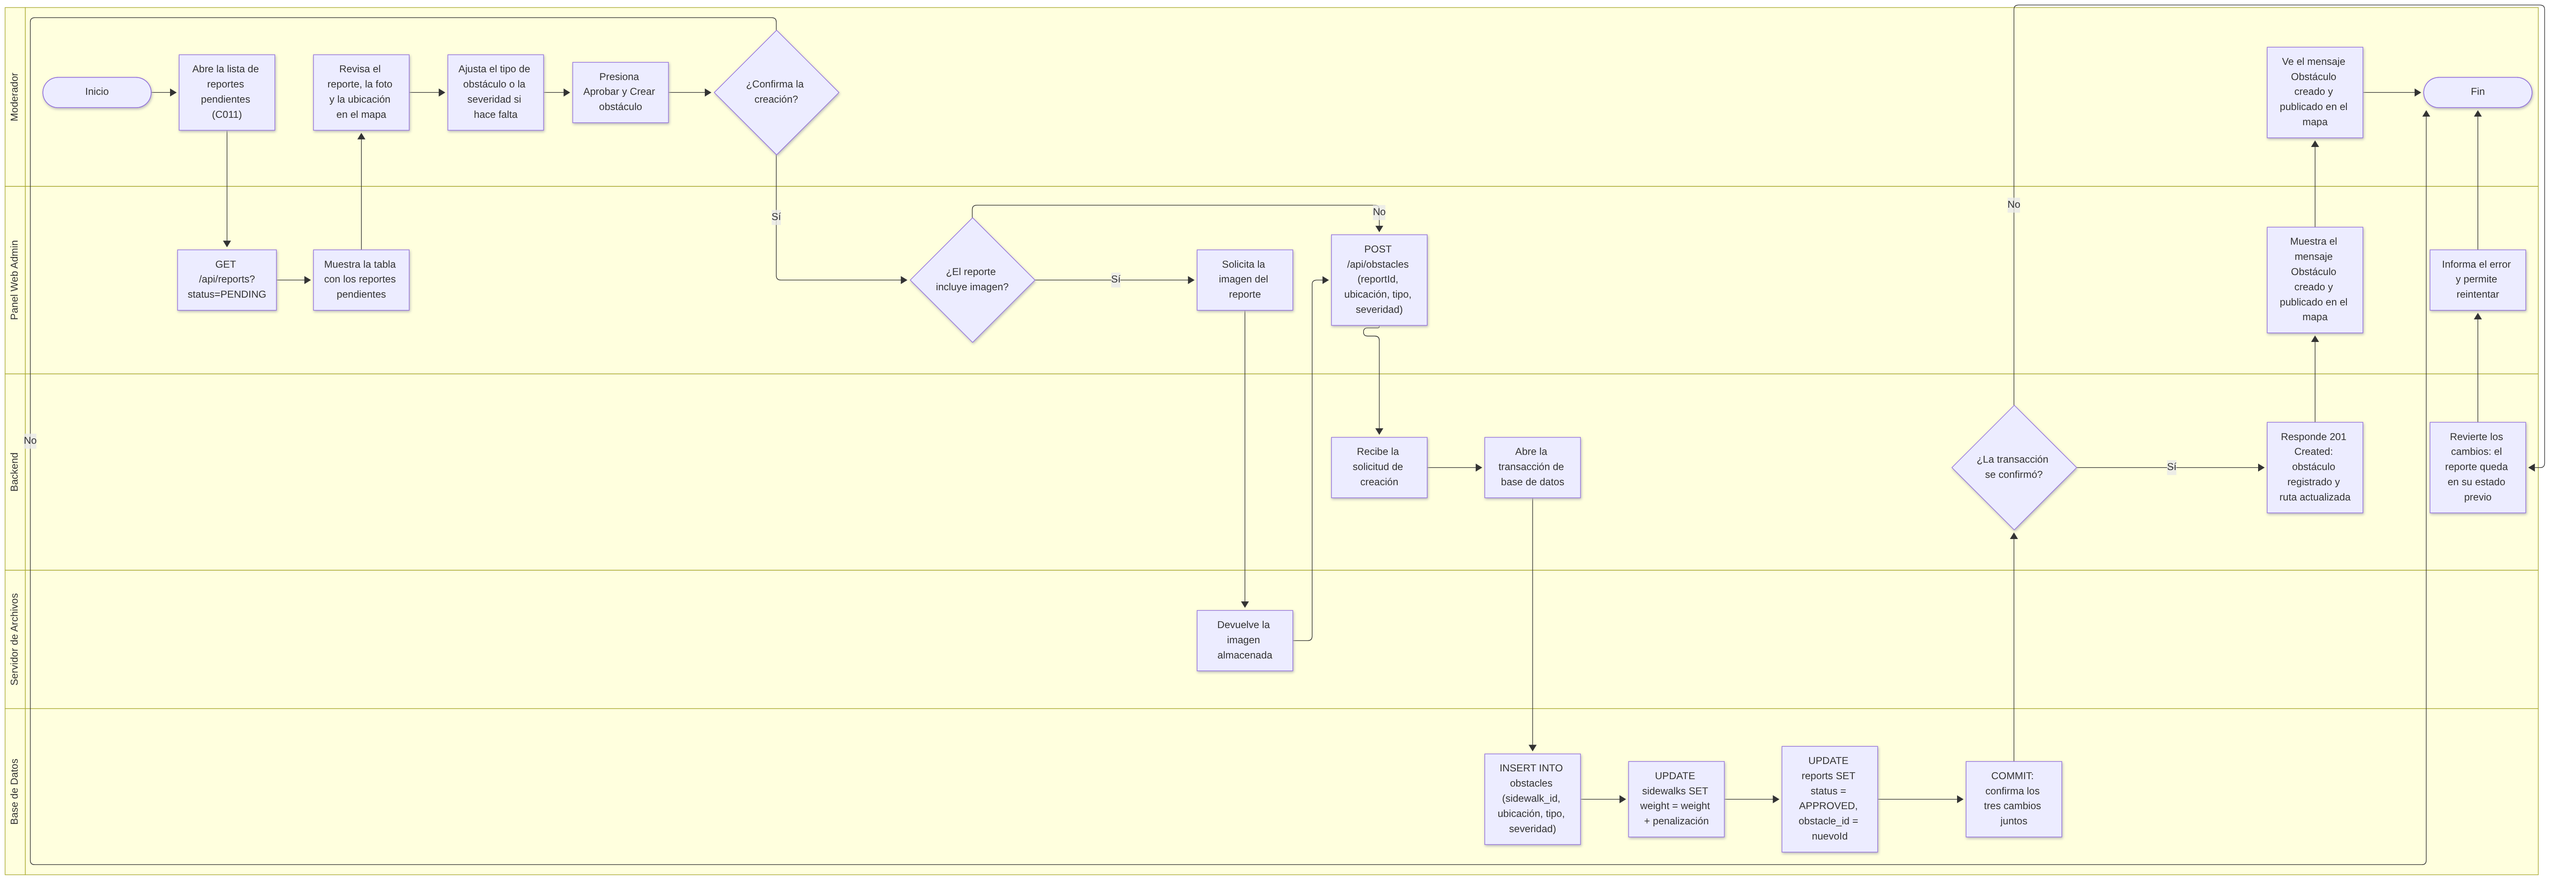
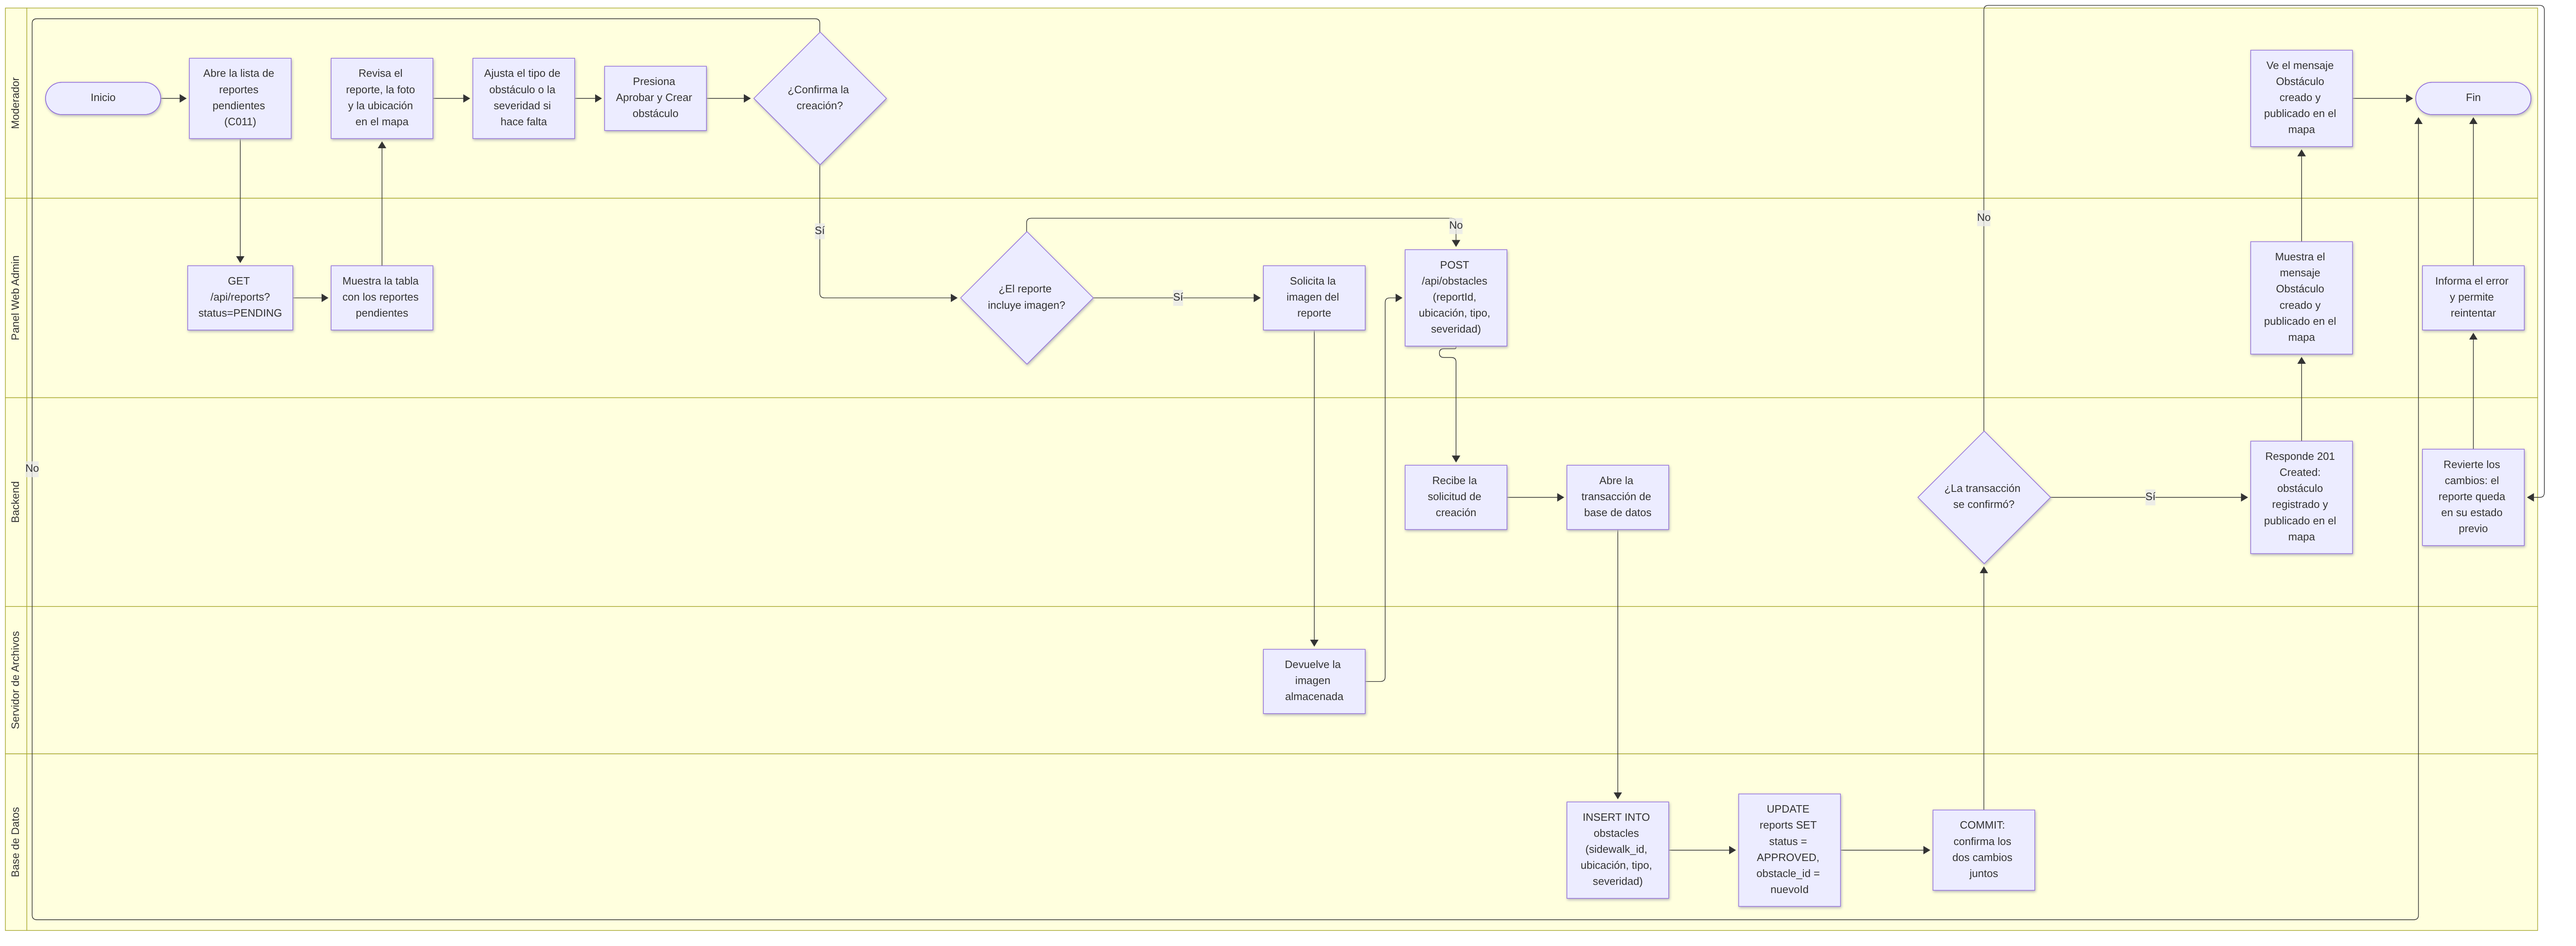
docs: derivar el costo de ruteo en vez de guardarlo
El diagrama de C012 hacia UPDATE sidewalks SET weight = weight + penalty, y no
existe tal columna. Tampoco deberia existir: una columna de costo es un cache
que tienen que mantener C012, C013, C014 y el importador, y 'weight + penalty'
no se puede revertir porque no queda registro de cuanto se sumo.

El costo se calcula en una vista, walkable_edges, que une veredas y cruces:
metros x factor de accesibilidad + suma de penalizaciones de obstaculos activos.
El nivel multiplica porque escala con la distancia; el obstaculo suma porque es
un evento puntual y cuesta lo mismo en una cuadra de 50 m que en una de 100.
CRITICAL bloquea (costo -1) y en un nodo solo se honra el bloqueo, porque
pgRouting no cobra por nodo. NULL se cobra como PARTIAL.

De paso se elimina crossings.has_traffic_light: el import lo deja en false en
todo el grafo y un booleano no representa el riesgo de un cruce. El DER ya no la
muestra; el DROP COLUMN va en #24.

Los diagramas de C012 y C003 dejan de hablar de pesos escritos, y el DER pasa a
escala 6, que estaba ilegible.

diff --git a/docs/09-modelo-de-datos.md b/docs/09-modelo-de-datos.md
@@ -17,6 +17,7 @@ Este documento responde:
   entre las tres formas posibles (§3).
 - **Qué** forma tiene cada campo cerrado del modelo, y qué relación hay entre
   reportes y obstáculos (§4).
+- **Dónde** vive el costo de ruteo de las aristas y con qué se combina (§4.7).
 - **Cómo** se administra un enum: orden, agregar, renombrar y quitar valores (§5).
 - **Qué** forma tiene un catálogo y cómo se da de baja una fila (§6).
 - **Cómo** se escribe una migración: formato, nombres, marcas de tiempo y
@@ -24,8 +25,8 @@ Este documento responde:
 
 No contiene el DER —eso es [01-diagramas.md](01-diagramas.md) §3 y su fuente en
 `docs/diagrams/01-DER.mmd`— ni las reglas de negocio que usan estos valores: las
-transiciones de estado están en los diagramas `05-est-*.mmd` y los pesos de ruteo se
-deciden en el issue correspondiente (§7).
+transiciones de estado están en los diagramas `05-est-*.mmd`. El costo de ruteo de las
+aristas sí se decide acá, pero solo en lo que toca al esquema: no es una columna (§4.7).
 
 ## 2. Convenciones del esquema
 
@@ -86,7 +87,7 @@ posible, porque el ruteo evita tramos que quizá están en buen estado.
 
 `PARTIAL` es el valor que justifica el ternario: una vereda angosta o con desnivel
 parcial no es intransitable, es transitable con penalización. Cuánto penaliza cada
-nivel se decide en el modelo de peso de las aristas (§7).
+nivel se decide en el costo de las aristas (§4.7).
 
 **`is_verified` es otro eje y no se reemplaza.** Dice procedencia —"un moderador
 comprobó este valor"— no accesibilidad. Un elemento puede tener nivel `PARTIAL`
@@ -129,11 +130,17 @@ que corresponde, así que el dato que alimenta el ruteo y las estadísticas no a
 esa es la señal de que falta un tipo en el catálogo — y agregarlo es un `INSERT`, no
 una migración, porque el catálogo es datos.
 
-**`obstacles.type` va a catálogo** porque el tipo no es solo una etiqueta: va a llevar
-atributos (nombre para mostrar, y más adelante su efecto en el ruteo) y va a crecer
-por datos —una barrera nueva no debería esperar un deploy—. Como `varchar` no admite
-ni lo uno ni lo otro, y como enum no admite atributos, la tabla de referencia es la
-única forma que cubre los dos casos.
+**`obstacles.type` va a catálogo** porque el tipo no es solo una etiqueta: lleva
+atributos propios (el nombre para mostrar) y va a crecer por datos —una barrera nueva no
+debería esperar un deploy—. Como `varchar` no admite un atributo, y como enum no admite
+atributos, la tabla de referencia es la única forma que cubre los dos casos.
+
+**El catálogo no lleva el efecto del tipo en el ruteo.** Si una barrera bloquea el paso o
+solo lo dificulta no es una propiedad del tipo —un pozo grande bloquea y uno chico no;
+una obra puede ocupar todo el ancho de la vereda o una parte— sino del obstáculo
+concreto, y ahí el dato ya existe: `obstacles.severity` (§4.7). Por eso no hay columna de
+peso ni de bloqueo en `obstacle_types`: agregarla daría dos fuentes para la misma
+pregunta y una contradicción posible (`MISSING_RAMP` marcado `MINOR` que igual bloquea).
 
 **`tutorials.category` va a catálogo** por la misma razón, con un argumento propio: la
 categoría la crean, editan y desactivan los moderadores. Un enum obligaría a una
@@ -141,7 +148,7 @@ migración cada vez que alguien agrega una categoría de video.
 
 ### 4.3 Los campos que se eliminan
 
-Dos campos del DER original se eliminaron, y se documenta acá porque quitarlos es una
+Tres campos del DER original se eliminaron, y se documenta acá porque quitarlos es una
 decisión de esquema, no un detalle.
 
 **`sidewalks.side`.** El "lado" de una vereda no es un atributo de la vereda: es una
@@ -181,6 +188,24 @@ de ruedas es `PARTIAL` o `NONE`. El ancho solo hace falta si se quiere *calcular
 nivel en vez de relevarlo. Agregar la columna después es aditivo y barato; y si el
 ruteo llegara a necesitar el dato, probablemente no sea una columna sino muestras a lo
 largo de la arista.
+
+**`crossings.has_traffic_light`.** Es el mismo caso que el ancho, con un problema más:
+un booleano **no dice lo que hay que saber**. Que un cruce tenga semáforo o no explica
+poco de su riesgo peatonal —cuenta el volumen y la velocidad del tráfico, si hay senda
+pintada, si la fase es protegida, el ancho de la calzada—, así que cualquier regla que lo
+usara estaría adivinando.
+
+Pero lo que lo vuelve inservible en el MVP es el valor por defecto. La columna es
+`NOT NULL DEFAULT false` y OpenStreetMap no trae el tag de forma confiable, así que **el
+import deja todo el grafo diciendo "sin semáforo"**. Una penalización por ese campo
+castigaría todos los cruces, incluidos los de una calle de barrio donde no hay semáforos
+porque no hacen falta: exactamente el error del booleano de accesibilidad (§4.1), un
+valor que significa "no sé" y termina afirmando algo falso.
+
+Se elimina del DER en esta decisión y la columna se borra con la migración
+correspondiente (#24). Si en alguna fase se quiere modelar el riesgo de un cruce, es un
+análisis propio —y casi seguro no con un booleano—; el tag de OSM se puede volver a
+importar cuando exista ese modelo.
 
 ### 4.4 El modelo en la calle
 
@@ -283,10 +308,163 @@ La razón es la promesa del producto. Si alguien guarda "casa → escuela" y el 
 almacena el camino calculado, ese camino puede volverse intransitable a la mitad —un
 obstáculo nuevo, una vereda rota— y la aplicación estaría mandando a la persona por un
 recorrido que ya no existe. Guardar el punto de partida y el de llegada obliga a
-recalcular cada vez, con los obstáculos y los pesos del momento.
+recalcular cada vez, con los obstáculos y la accesibilidad del momento.
 
 La consecuencia aceptada: el mismo par de extremos puede dar caminos distintos en
 momentos distintos. Eso no es un defecto, es el comportamiento correcto.
+
+### 4.7 El costo de las aristas se calcula, no se guarda
+
+Ni `sidewalks` ni `crossings` llevan una columna de costo. El costo de cada arista se
+**deriva en la consulta de ruteo** a partir de lo que ya está en el esquema: la longitud de
+su geometría, el `accessibility_level` del elemento y los obstáculos activos que lo afectan.
+
+Una vista, `walkable_edges`, reúne las dos tablas de aristas y escribe la fórmula una sola
+vez:
+
+```
+costo(e) = metros(e) × factor_nivel(e) + Σ penalización(obstáculos activos de e)
+```
+
+**Una vista no es una copia.** `CREATE VIEW` guarda solo el texto de la consulta: cada vez
+que se consulta, PostgreSQL lo expande y calcula el costo en ese momento. No ocupa espacio,
+no hay nada que mantener actualizado y no puede desincronizarse con las tablas. La que
+guarda datos es la vista *materializada*, y es justamente la que no se quiere.
+
+**`metros`** es `ST_Length(geom::geography)`, en metros reales y no en grados. No es un
+detalle: `pgr_dijkstra` minimiza la suma de los costos, así que las aristas tienen que estar
+en una unidad comparable; con grados, un tramo norte-sur cuesta más que uno este-oeste del
+mismo largo. Y sin ningún término de distancia el algoritmo minimiza la **cantidad de
+aristas** y no los metros: una ruta de quince cuadras cortas le gana a una de tres largas.
+
+**`factor_nivel`** multiplica, porque el nivel y el largo describen el mismo recorrido: 100 m
+de vereda `PARTIAL` cuestan como 200 m, y así se comparan con 200 m de vereda `FULL`.
+
+| `accessibility_level` | `factor_nivel` |
+| --- | --- |
+| `FULL` | 1 |
+| `PARTIAL` | 2 |
+| `NULL` | 2 |
+| `NONE` | `-1` |
+
+`NONE` no es un factor alto: **es `-1`, que es como pgRouting representa una arista que no
+se puede recorrer** ("a negative value on a cost column is interpreted as the edge does not
+exist"). Con eso la arista queda fuera del grafo sin un `WHERE` que la filtre, y cuando no
+hay camino el caso de uso ya tiene respuesta: C003 devuelve la mejor ruta disponible y marca
+los tramos comprometidos.
+
+`NULL` se cobra como `PARTIAL`, y la regla se enuncia así: **sin dato no se evita y no se
+premia**. Las dos lecturas directas son peores. Cobrarlo como `FULL` hace que el import de
+OpenStreetMap —que no trae accesibilidad— deje toda la red gratis, y entonces el ruteo
+prefiere una vereda sin relevar antes que una que un moderador revisó y marcó `PARTIAL`: el
+relevamiento castigaría al dato bueno. Cobrarlo como `NONE` deja la zona piloto sin ninguna
+ruta posible, que es el default que §4.1 ya descartó para el ternario.
+
+**Las penalizaciones suman, y por eso no multiplican.** Un obstáculo es un evento puntual:
+está en un lugar, y cuesta lo mismo en una cuadra de 50 m que en una de 100. Si su efecto
+multiplicara el largo, el mismo pozo costaría el doble por estar en una vereda más larga,
+que es falso; lo que escala con la distancia es caminar, y eso ya está en `metros`. Sumar
+deja además una sola unidad, los **metros equivalentes**: "este pozo cuesta como 15 m de
+vuelta".
+
+| Situación de la arista | Sumando |
+| --- | --- |
+| Sin obstáculos activos | 0 |
+| Un obstáculo `MINOR` | +15 m |
+| Un obstáculo `MODERATE` | +40 m |
+| Un obstáculo `CRITICAL` | la arista pasa a `-1` |
+
+Dos obstáculos en la misma cuadra suman. Que el mismo pozo reportado por cinco personas
+cuente una vez no depende de esta fórmula sino del modelo: los cinco reportes apuntan a
+**un** obstáculo, no a cinco (§4.5).
+
+**`CRITICAL` es la única severidad que no se pondera: bloquea.** Bloquear es una propiedad
+del obstáculo concreto y no de su tipo —un pozo grande bloquea y uno chico solo dificulta;
+una obra puede ocupar todo el ancho de la vereda o una parte—, así que el dato vive en
+`obstacles.severity` y no en el catálogo (§4.2). La consecuencia a tener presente: en el
+enum, `CRITICAL` pasa a significar "no se puede pasar" y ya no puede significar "muy malo,
+pero pasable". Si ese matiz hiciera falta, se agrega un nivel al enum (§5), no una columna.
+
+**Obstáculos activos** son los que tienen `is_resolved = false` y `deleted_at IS NULL`. El
+estado del reporte no entra en el costo: un reporte `UNDER_REPAIR` cuyo obstáculo sigue
+activo describe una barrera que sigue en la calle.
+
+**En un nodo, solo se honra el bloqueo.** Los metros son una cantidad de arista y un
+`kerb_node` no tiene: `pgr_dijkstra` no cobra por nodo, y como el caminar es no dirigido
+tampoco se puede cobrar "al salir" de uno sin volver el grafo dirigido. Entonces un
+obstáculo `CRITICAL` sobre un cordón deja intransitables todas sus aristas incidentes —la
+esquina no se puede usar, que es lo que significa una rampa faltante—, y un `MINOR` o
+`MODERATE` sobre un cordón **no mueve el costo**: queda en el mapa como información. Las
+alternativas descartadas repartían la penalización entre las aristas incidentes, con lo que
+la cuenta dependía del grado del nodo y una ruta que atravesaba la esquina pagaba dos veces.
+La puerta para modelar costo en el nodo existe —`pgr_trsp` con penalizaciones de giro— pero
+pide un grafo consciente de giros: es otra decisión.
+
+Los números de las tablas son el **punto de partida**, no el contrato: se ajustan midiendo
+rutas reales, y viven en la vista, no en los datos.
+
+#### Por qué no una columna `weight`
+
+El diagrama de C012 escribía `UPDATE sidewalks SET weight = weight + penalty` al crear un
+obstáculo, y ese `UPDATE` es el que no va a existir. Los motivos:
+
+1. **Una columna así es un caché sin invariante.** Tiene que ser verdadera después de cada
+   escritura, y los escritores son varios: crear el obstáculo (C012), resolverlo (C013),
+   cambiar el nivel de accesibilidad (C014), corregir la severidad en el portal, reimportar
+   OpenStreetMap. Cada uno de esos caminos tendría que acordarse de recalcular, y ninguno de
+   esos cálculos se puede auditar: no queda registro de qué se sumó.
+2. **`weight = weight + penalty` no se puede revertir.** Resolver el obstáculo tiene que
+   restar exactamente lo que se sumó: si la misma barrera tuvo dos reportes aprobados como
+   dos obstáculos se sumó dos veces, pero no hay columna que diga cuántas, y la reparación
+   resta una vez. Con el costo derivado, resolver el obstáculo alcanza para que deje de
+   contar.
+3. **El obstáculo ya es dueño de su efecto.** Guardar el efecto en la arista duplica una
+   verdad que tiene dueño propio, que es el obstáculo con su tipo, su severidad y su estado.
+   Es el mismo argumento de §4.6 para no guardar el recorrido de una ruta guardada, y el de
+   §4.1 para que `report_status` no lleve un valor `DELETED`.
+4. **El número es política, no dato de la calle.** Qué factor recibe cada nivel y cuántos
+   metros equivalentes suma cada severidad se ajusta probando, y guardarlos convertiría cada
+   ajuste en una migración de datos sobre todo el grafo. Así se cambia una vista.
+
+#### Limitaciones aceptadas
+
+**Bloquear bloquea la arista entera.** Una barrera en el metro 80 de una vereda de 100 m
+deja intransitable también el metro 60, que físicamente se puede caminar hasta ahí. Pasa
+porque la unidad de costo es la arista y el modelo no tiene barreras en el medio de una; las
+aristas ya se cortan en cada nodo, así que en el peor caso se pierde una cuadra.
+
+El arreglo correcto no es afinar el costo por metro: es **partir la arista en el punto del
+obstáculo** cuando el moderador lo vincula, con ese punto convertido en un `kerb_node` nuevo
+y las dos mitades heredando nivel y verificación. No entra en el MVP por una razón que no es
+de esquema: sería la primera vez que el portal modifica el grafo, y eso exige que el
+importador respete los cortes al reimportar, cosa que hoy no puede porque `crossings` no
+tiene identificador externo (§8). Se revisa cuando el importador sea idempotente. Mientras
+tanto, el portal puede avisar, al vincular un obstáculo a un tramo, que en el ruteo esa
+barrera bloquea la cuadra entera y no solo el punto: la limitación queda visible en lugar de
+sorpresiva.
+
+#### Consecuencias
+
+- **C012 no recalcula nada.** Crea el obstáculo y marca el reporte; el efecto en el ruteo
+  aparece en la próxima consulta, sin escribir en las tablas del grafo. Bajar además el nivel
+  del elemento, cuando la barrera cambia su estado actual, sigue siendo válido (§4.5), pero
+  el ruteo ya no depende de que se haga.
+- **C013 y C014 tampoco.** Resolver un obstáculo o cambiar un nivel escribe una sola tabla.
+  Dejan de existir los escritores del costo que podían desincronizarlo.
+- **Toda consulta de ruteo paga la derivación.** En la zona piloto son algunos miles de
+  aristas y no se nota. Se mide con `EXPLAIN` antes de suponer; si molesta, la salida es una
+  vista materializada que se refresca cuando cambia una de las tablas que la alimentan, no
+  una columna que alguien actualiza a mano.
+- **Hacen falta índices parciales de obstáculos activos** por `sidewalk_id`, `kerb_node_id` y
+  `crossing_id`. Los que existen filtran por `IS NOT NULL`, no por estado. Se agregan al
+  implementar el ruteo, con la medición a la vista.
+- **La vista es donde se unen las dos tablas de aristas.** `pgr_dijkstra` necesita una sola
+  relación con `id`, `source`, `target` y `cost`, y los `id` de veredas y cruces se pisan,
+  así que ahí se resuelven los identificadores sintéticos; como el caminar es no dirigido,
+  alcanza con `cost` y `directed => false`, sin `reverse_cost`. La topología y el
+  identificador sintético son del importador.
+- **El semáforo no entra.** `crossings.has_traffic_light` se elimina (§4.3): el costo de un
+  cruce no depende por ahora de nada más que su accesibilidad y sus obstáculos.
 
 ## 5. Administrar un enum
 
@@ -391,21 +569,19 @@ actualizar y la columna sería peso muerto.
 ## 8. Lo que este documento no decide
 
 - **Transiciones de estado.** Qué valores existen lo garantiza la base; qué
-transiciones son válidas lo garantiza la máquina de estados en el servicio, con los
-diagramas `05-est-*.mmd` como fuente y tests que las cubran. Que exista `RESOLVED` no
-impide escribir `PENDING → RESOLVED`; eso no es trabajo del esquema.
-- **Pesos de ruteo.** Cuánto penaliza un nivel de accesibilidad, si un tipo de
-obstáculo bloquea o penaliza, y cómo se combinan. Los catálogos están listos para
-recibir esas columnas cuando se decida.
-- **Pesos de ruteo.** Cuánto penaliza un nivel de accesibilidad, si un tipo de
-  obstáculo bloquea o penaliza, y cómo se combinan. Los catálogos están listos para
-  recibir esas columnas cuando se decida. Mientras tanto, el diagrama de C012 asume un
-  `sidewalks.weight` que todavía no existe.
+  transiciones son válidas lo garantiza la máquina de estados en el servicio, con los
+  diagramas `05-est-*.mmd` como fuente y tests que las cubran. Que exista `RESOLVED` no
+  impide escribir `PENDING → RESOLVED`; eso no es trabajo del esquema.
+- **El valor de los factores de costo.** §4.7 fija la regla —las penalizaciones suman,
+  `NULL` se cobra como `PARTIAL`, `CRITICAL` bloquea— y un punto de partida para los
+  números. Ajustarlos es calibrar, y se hace midiendo rutas reales cuando exista el ruteo.
 - **La identidad de los cruces para reimportar.** `sidewalks` guarda su `osm_way_id`,
   pero `crossings` no tiene ningún identificador externo: si el importador se vuelve a
   correr, no puede reconocer un cruce que ya existe salvo comparando geometría. Se
   resuelve en el importador, no en el esquema, pero conviene tenerlo anotado antes de
-  escribir el importador de OpenStreetMap.
+  escribir el importador de OpenStreetMap. De eso depende también partir una arista en
+  el punto de un obstáculo, que es la única forma de que una barrera no bloquee la
+  cuadra entera (§4.7).
 
 ## 9. Documentos relacionados
 
